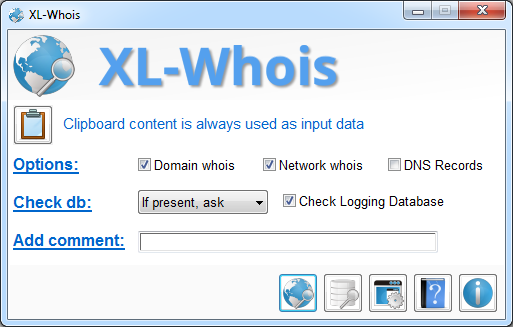
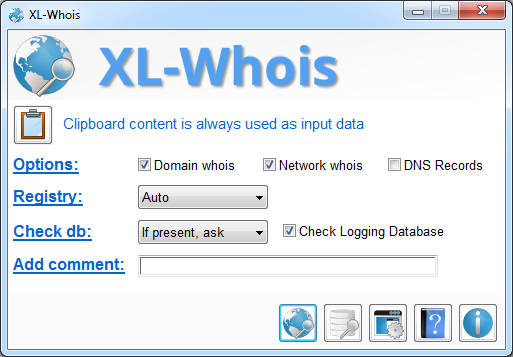
Version 2.2
See ReadMe

diff --git a/doc/Documentation.html b/doc/Documentation.html
@@ -18,8 +18,7 @@
 -->
 <head>
 <title>XL-Whois Documentation</title>
-<link rel="stylesheet" type="text/css" href="../Style.css">
-	<meta http-equiv="Content-Type" content="text/html; charset=utf-8">
+<meta http-equiv="Content-Type" content="text/html; charset=utf-8">
 <style>
 li { margin: 0.5em 0; }
 </style>
@@ -85,7 +84,7 @@ above manually, in case you already have some of these databases.</p>
 
 <a name="XL-WhoisMainWindow">
 <h2 style="margin-top:1.5em;">Main Window</h2>
-<img src="XL-WhoisMainWindow.png" alt="Xl-Whois Main Window" width="512" height="327" border="0">
+<img src="XL-WhoisMainWindow.png" alt="Xl-Whois Main Window" width="513" height="357" border="0">
 </a>
 <p>In this window, you can select options for the current whois request(s):</p>
 <ul>
@@ -99,6 +98,12 @@ request:</li>
 to be able to send a <strong>Network whois</strong> about a Domain name, XL-Whois 
 use system nsLookup to resolve the requested item.</li>
 </ul>
+<li><strong>Registry</strong>: This option may be used if you want to force the 
+network whois to be queried to the selected registry. The <strong>IPv4 Database</strong> 
+(ipv4-address-space.csv) from IANA contains "errors" that affect whois tools. For 
+example, 163/8 is supposed to be administered by APNIC, but 163.247/16 is administered 
+by LACNIC. So, in this case, you will get a better answer if you force the registry 
+to LACNIC.</li>
 <li><strong>Check db:</strong> There are two databases that can be used here:</li>
 <ul> 
 <li><strong>Whois Database</strong>: Details about <strong>Network whois</strong> 
@@ -140,10 +145,10 @@ height="350" border="0">
 <li><strong>Export Lang.ini:</strong> Use this function to translate XL-Whois GUI. 
 See <a href="./XL-Whois.html#Translation">Translation</a> for help about this 
 functionality.</li>
-<li><strong>Check Update:</strong> Check on <a href="https://www.le-tools.com" 
-target="_blank">www.le-tools.com</a> if a tool update is available.</li>
-<li><strong>Check for update at startup:</strong> Check update everytime 
-XL-Whois is started.</li>
+<li><strong>Check Update:</strong> Check on <a href="https://le-tools.com" 
+target="_blank">le-tools.com</a> if a tool update is available.</li>
+<li><strong>Check for update at startup:</strong> Check if an update is available 
+everytime XL-Whois is started.</li>
 </ul>
 <p>In <strong>General</strong> section, you can:</p>
 <ul>

diff --git a/doc/XL-Whois.html b/doc/XL-Whois.html
@@ -18,8 +18,7 @@
 -->
 <head>
 <title>XL-Whois</title>
-<link rel="stylesheet" type="text/css" href="../Style.css">
-	<meta http-equiv="Content-Type" content="text/html; charset=utf-8">
+<meta http-equiv="Content-Type" content="text/html; charset=utf-8">
 </head>
 <body>
 
@@ -72,6 +71,21 @@ run the executable file. </p>
 <td align="center" style="font-weight: bold;">Version</td>
 <td align="center" style="font-weight: bold;">Comments</td>
 </tr>
+<tr>
+<td align="center">2.2</td>
+<td>
+<ul>
+<li>New Configuration Wizard (when using the tool for the first time)</li>
+<li>New option to force the registry to use for network whois</li>
+<li>Fixed an issue related to whois server database (tld.json) that contains comment lines</li>
+<li>Fixed issues if the user delete the path of Logging database, Whois Database or folder for reports</li>
+<li>Fixed an issue when an ISP is deleted, network whois data was not deleted</li>
+<li>Fixed an issue when an ISP is added, green background in grid was not set</li>
+<li>Fixed an issue with line breaks when an ISP is added from LACNIC</li>
+</ul>
+</td>
+</tr>
+<tr>
 <tr>
 <td align="center">2.1</td>
 <td>
